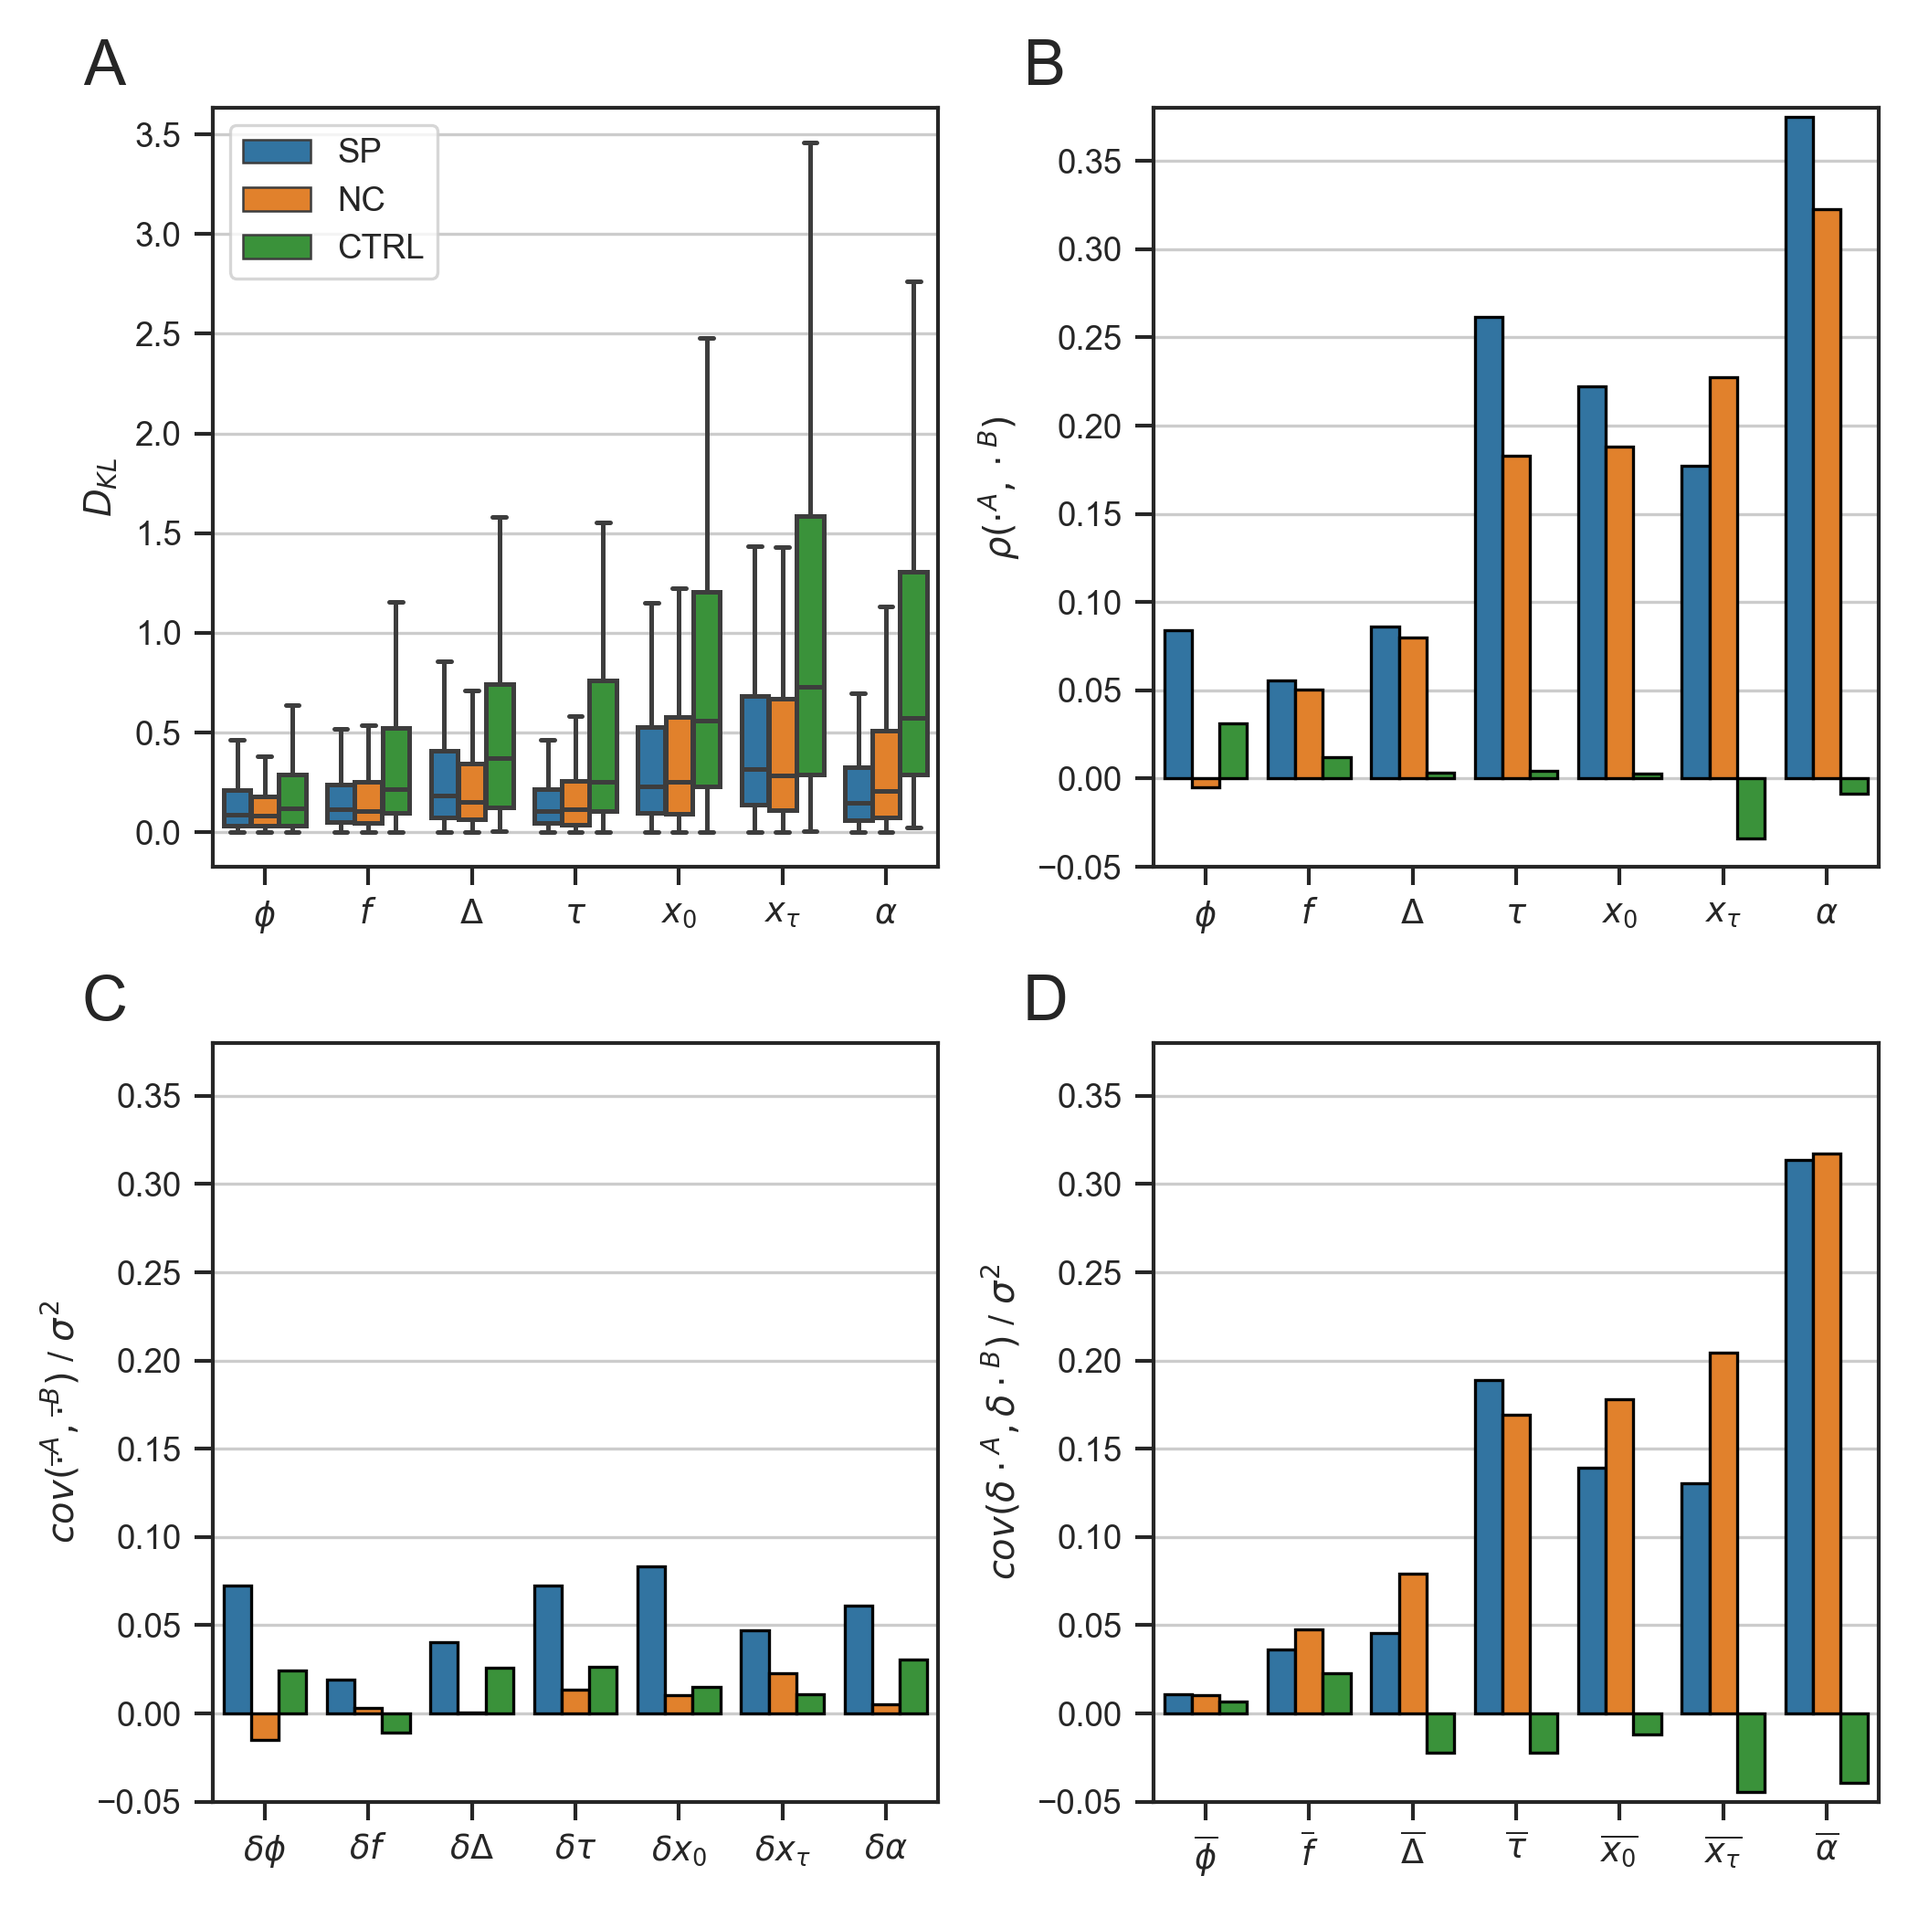
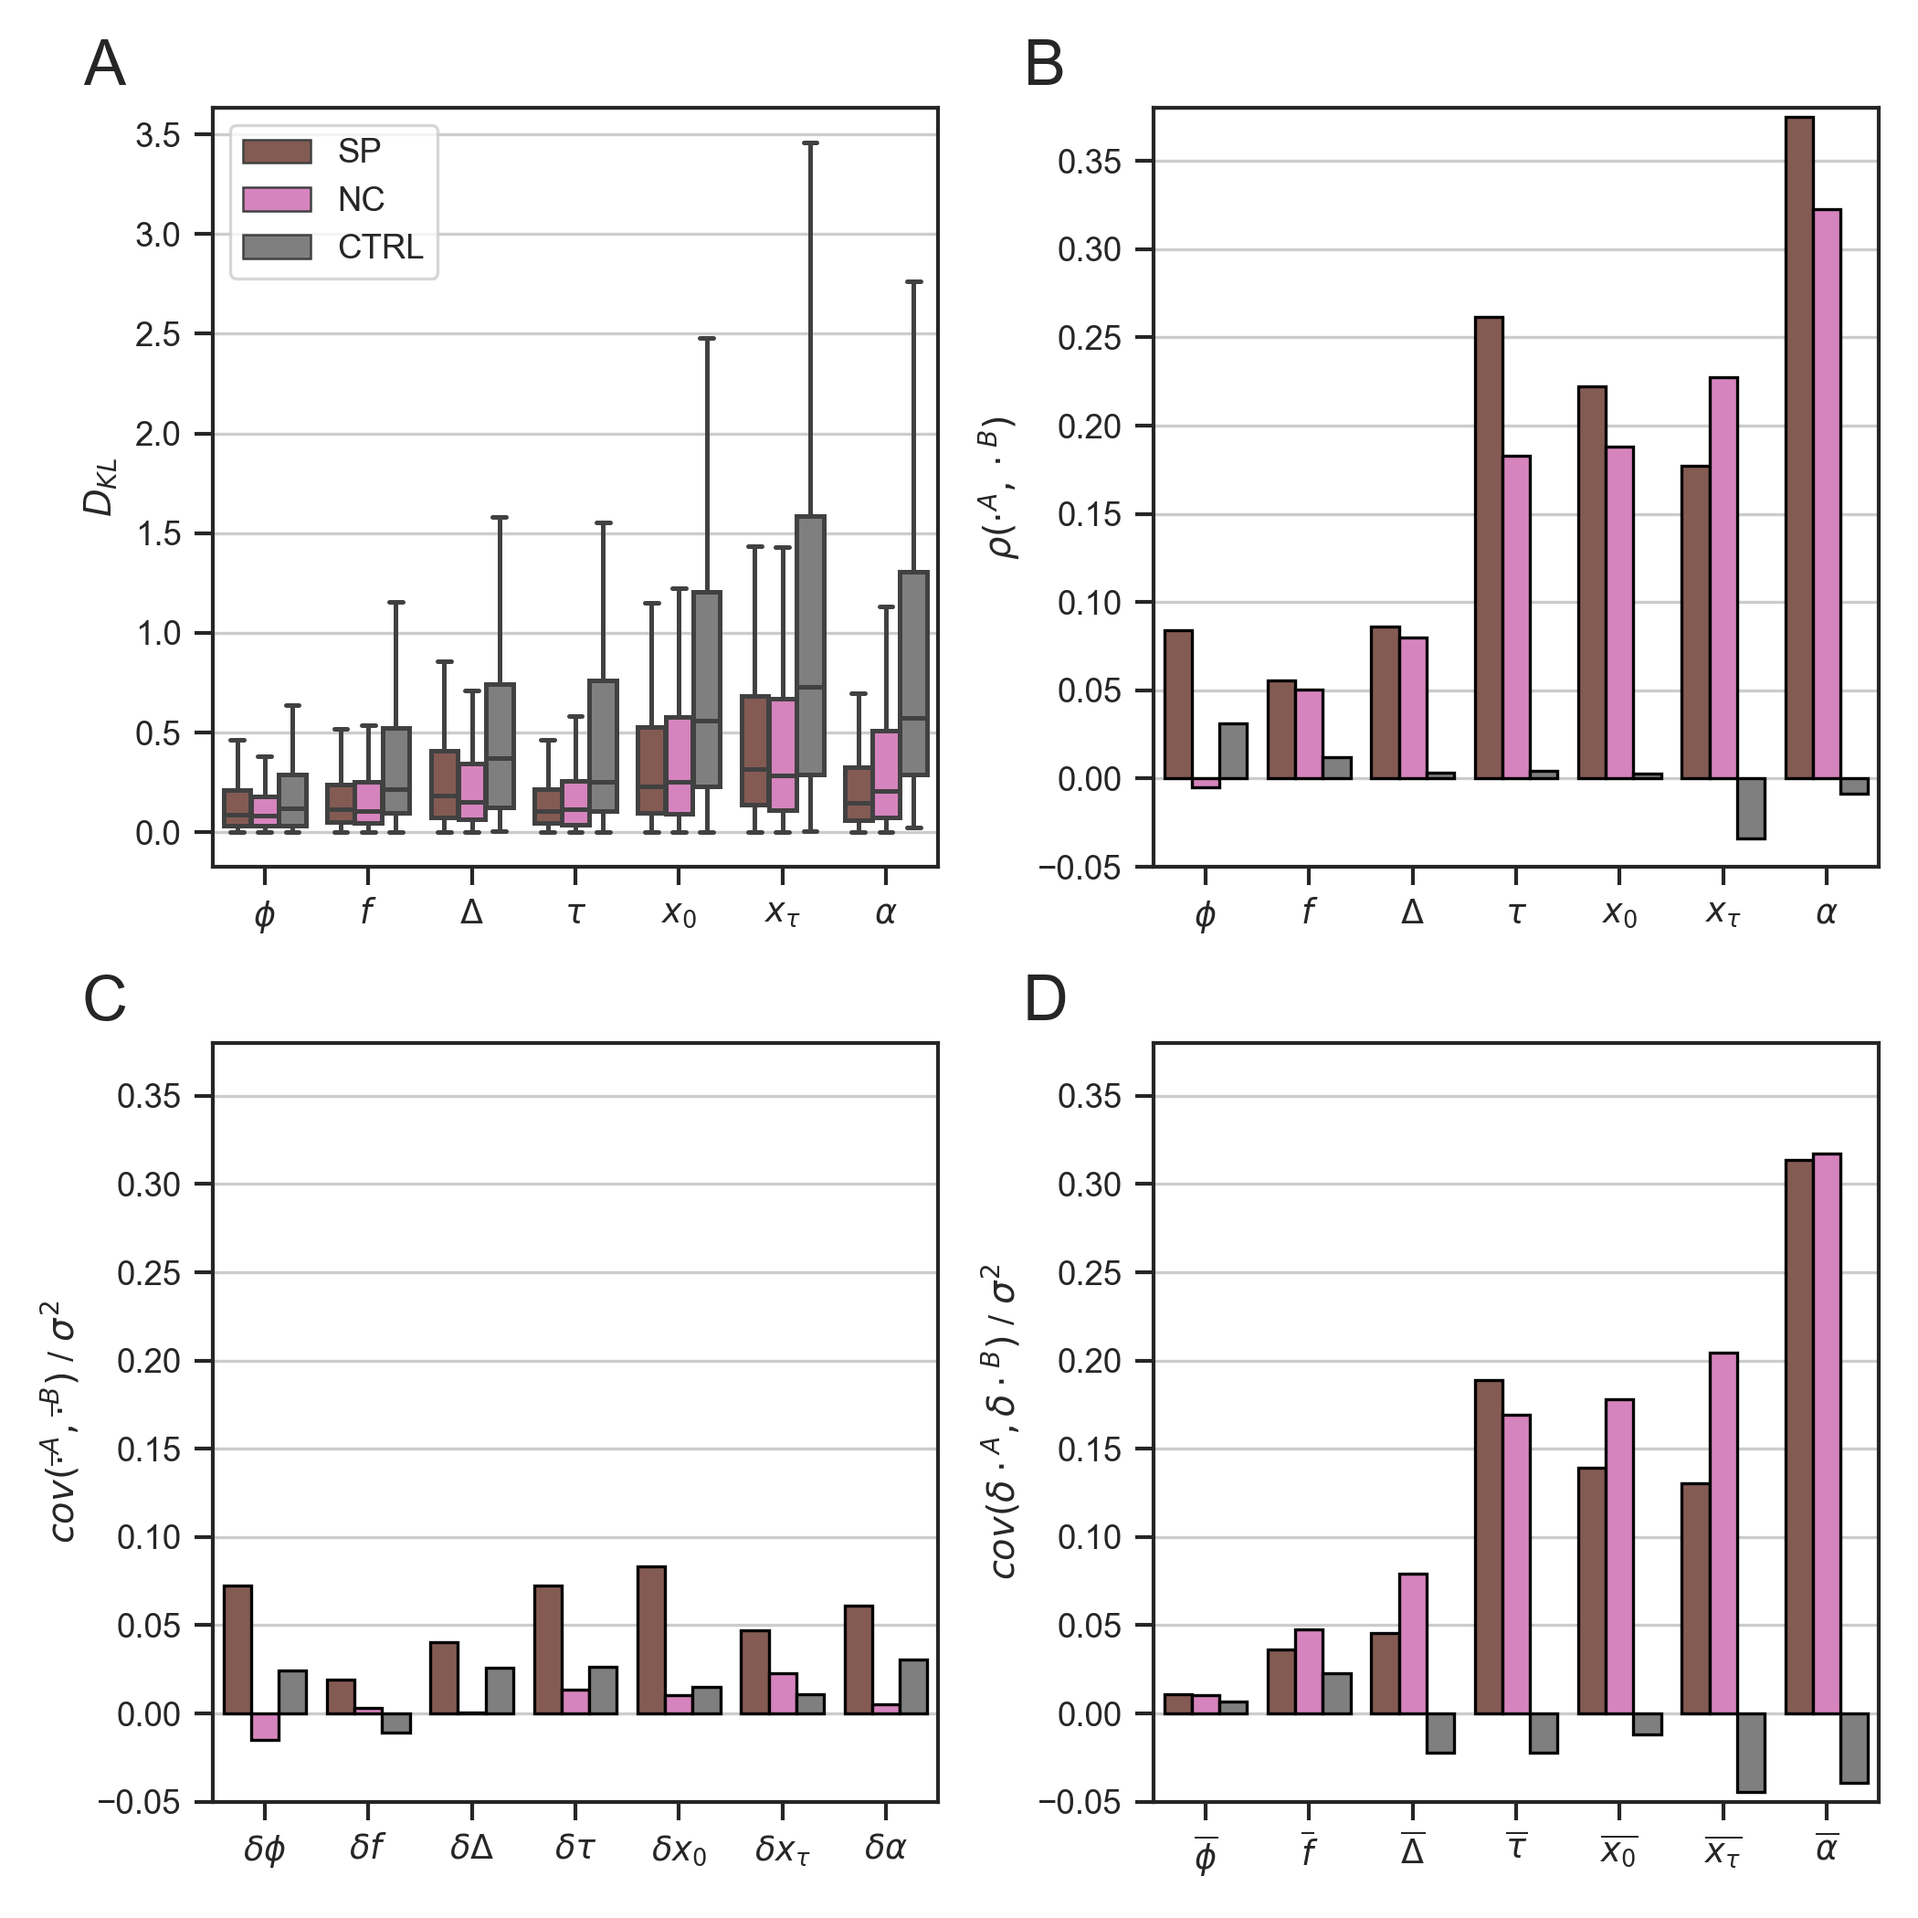
First Git

diff --git a/Plotting/growth_mechanism.py b/Plotting/growth_mechanism.py
@@ -63,6 +63,57 @@ def pyramid_of_pairwise_covariances():
     plt.close()
 
 
+def pyramid_no_numbers_in_cells():
+    
+    def normalize_correlation(df, variables):
+        cov = df.cov()
+        corr_df = pd.DataFrame(columns=variables, index=variables, dtype=float)
+        for param_1 in variables:
+            for param_2 in variables:
+                normalization = (physical_units[param_1].std() * physical_units[param_2].std())
+                
+                # # If the value lies in the noise range then make it zero
+                # if -.1 < cov.loc[param_1, param_2] / normalization < .1:
+                #     corr_df.loc[param_1, param_2] = float('nan')  # 0
+                # else:
+                #     corr_df.loc[param_1, param_2] = cov.loc[param_1, param_2] / normalization
+                corr_df.loc[param_1, param_2] = cov.loc[param_1, param_2] / normalization
+        
+        return corr_df
+    
+    seaborn_preamble()
+    
+    fig, axes = plt.subplots(nrows=1, ncols=3, figsize=[7, 2.5])
+    
+    mask = np.ones_like(normalize_correlation(physical_units, variables))
+    mask[np.tril_indices_from(mask)] = False
+    vmax, vmin = 1, -1
+    
+    pu = normalize_correlation(physical_units, variables).rename(columns=symbols['physical_units'], index=symbols['physical_units'])
+    ta = normalize_correlation(trace_means_df, variables).rename(columns=symbols['time_averages'], index=symbols['time_averages'])
+    tc = normalize_correlation(trace_centered, variables).rename(columns=symbols['trace_centered'], index=symbols['trace_centered'])
+    
+    sns.heatmap(pu, annot=False, center=0, vmax=vmax,
+                vmin=vmin, cbar=False, ax=axes[0], mask=mask, square=True, fmt='.2f')
+    axes[0].set_title('A', x=-.2, fontsize='xx-large')
+    
+    sns.heatmap(ta, annot=False, center=0, vmax=vmax, vmin=vmin,
+                cbar=False, ax=axes[1], mask=mask, square=True, fmt='.2f')
+    axes[1].set_title('B', x=-.2, fontsize='xx-large')
+    
+    cbar_ax = fig.add_axes([.91, .1, .03, .8])
+    
+    sns.heatmap(tc, annot=False, center=0, vmax=vmax,
+                vmin=vmin, cbar=True, ax=axes[2], mask=mask, cbar_kws={"orientation": "vertical"}, square=True, cbar_ax=cbar_ax, fmt='.2f')
+    axes[2].set_title('C', x=-.2, fontsize='xx-large')
+    
+    fig.tight_layout(rect=[0, 0, .9, 1])
+    
+    plt.savefig('{}/main variables without numbers.png'.format(args.figs_location), dpi=300)
+    # plt.show()
+    plt.close()
+
+
 parser = argparse.ArgumentParser(description='Dataframes containing: KL divergences, Population physical_units lineages, and the ergodicity breaking parameter for both kinds of lineages.')
 parser.add_argument('-save', '--save_folder', metavar='', type=str, help='Where to save the dataframes.',
                     required=False, default=os.path.dirname(os.path.dirname(os.path.abspath(__file__))) + '/Data')
@@ -92,3 +143,5 @@ physical_units = pd.read_csv(args.pu)[variables]
 trace_centered, trace_means_df = pd.read_csv(args.tc)[variables], pd.read_csv(args.ta)[variables]
 
 pyramid_of_pairwise_covariances()
+
+pyramid_no_numbers_in_cells()

diff --git a/Plotting/figure3.py b/Plotting/figure3.py
@@ -17,7 +17,7 @@ def kl_div_plot(ax):
     # Here we start plotting both KL-Divergences, The good part with this is that it takes into consideration the standard deviation as well
     # sns.barplot(data=kld_df, x='combo', y='kldiv 1', hue='dataset', hue_order=['S', 'NC', 'C'], order=[r'$\phi$', r'$f$', r'$\Delta$', r'$\tau$', r'$x_0$', r'$x_\tau$', r'$\alpha$'], ci=33,
     #             ax=ax, edgecolor='black')
-    sns.boxplot(data=kld_df.replace(symbols['physical_units']), x='variable', y='value', hue='dataset', hue_order=datasets, order=hierarchy, showfliers=False, ax=ax)
+    sns.boxplot(data=kld_df.replace(symbols['physical_units']), x='variable', y='value', hue='dataset', hue_order=datasets, order=hierarchy, showfliers=False, ax=ax, palette=cmap)
     ax.legend()
     ax.set_xlabel('')
     ax.set_ylabel(r'$D_{KL}$')
@@ -43,7 +43,7 @@ def diagonal_corrs(kind, ax):
     # plot_df = plot_df[plot_df['kind'] == kind].copy()
     
     sns.barplot(data=over_time_and_lineages[over_time_and_lineages['kind'] == kind], x='AB_parameter_pair', y='correlation', hue='dataset', hue_order=datasets,
-                order=symbols[kind].values(), ci=95, dodge=True, ax=ax, edgecolor='black')
+                order=symbols[kind].values(), ci=95, dodge=True, ax=ax, edgecolor='black', palette=cmap)
     ax.set_xlabel('')
     ax.set_ylabel('')
     ax.get_legend().remove()
@@ -52,7 +52,7 @@ def diagonal_corrs(kind, ax):
     # plt.close()
 
 
-""" the pearson correlation coefficient between all same-generation lineage pair-bacteria in each dataset separately in Physical Units """""" Plots the diagonal pairs figure. """
+""" the pearson correlation coefficient between all same-generation lineage pair-bacteria in each dataset separately in Physical Units """
 
 
 def diagonal_units(ax, filename='physical_units', n_boots=500):
@@ -90,7 +90,8 @@ def diagonal_units(ax, filename='physical_units', n_boots=500):
         showfliers=False,
         order=hierarchy,
         data=corr_df,
-        ax=ax
+        ax=ax,
+        palette=cmap
     )
     ax.axhline(0, ls='-', color='black')
     ax.set_xlabel('')
@@ -128,6 +129,8 @@ seaborn_preamble()
 # create the figure and construct the layout of the figure
 fig, axes = plt.subplots(2, 2, tight_layout=True, figsize=[7, 7])
 axes = axes.flatten()
+
+cmap = sns.color_palette('tab10')[5:8]
 
 # plot the figures
 kl_div_plot(axes[0])

diff --git a/Plotting/intergenerational_figures.py b/Plotting/intergenerational_figures.py
@@ -28,8 +28,6 @@ def put_all_graphs_into_a_big_grid(variables=phenotypic_variables):
     
     old_latex_symbols = {variable: symbols['old_var'][variable] for variable in variables}
     young_latex_symbols = {variable: symbols['young_var'][variable] for variable in variables}
-    #
-    # df = df[variables].copy().rename(columns=latex_symbols)
     
     kinds = np.unique(output_df['dataset'])
     
@@ -37,10 +35,7 @@ def put_all_graphs_into_a_big_grid(variables=phenotypic_variables):
     
     xmin, xmax = np.min(np.unique(output_df['distance'])), np.max(np.unique(output_df['distance']))
 
-    print()
-
     xticks = np.array(np.unique(output_df['distance'])[0::2], dtype=int)
-    # xticks = np.array(xticks, dtype=int)
     
     fig, axes = plt.subplots(nrows=len(variables), ncols=len(variables), figsize=[7, 7])
     
@@ -51,7 +46,7 @@ def put_all_graphs_into_a_big_grid(variables=phenotypic_variables):
             
             for kind in kinds:
                 plot_df = output_df[(output_df['young_var'] == col_var) & (output_df['old_var'] == row_var) & (output_df['dataset'] == kind)]
-                ax.plot(plot_df['distance'], plot_df['correlations'], marker='o', markersize=3)
+                ax.plot(plot_df['distance'], plot_df['correlations'], marker='o', markersize=3, color=cmap[kind])
                 
             # Setting the limits of all axes
             ax.set_ylim([bottom, top])
@@ -112,6 +107,11 @@ output_df = pd.read_csv(args.corr_dir)
 
 # cut it at 10 generations
 output_df = output_df[output_df['distance'] < 9]
+
+cmap = {
+    'physical units': 'blue',
+    'trace centered': 'green'
+}
 
 # plot it
 put_all_graphs_into_a_big_grid()

diff --git a/Plotting/pair_gen_specific_figures.py b/Plotting/pair_gen_specific_figures.py
@@ -110,4 +110,3 @@ pair_correlation = pd.read_csv('{}/over_lineages.csv'.format(args.save_folder))
 plot_main_figure()
 
 plot_three_in_one()
-
